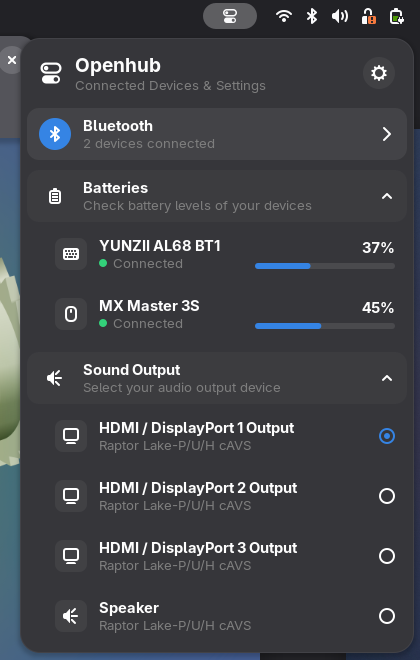
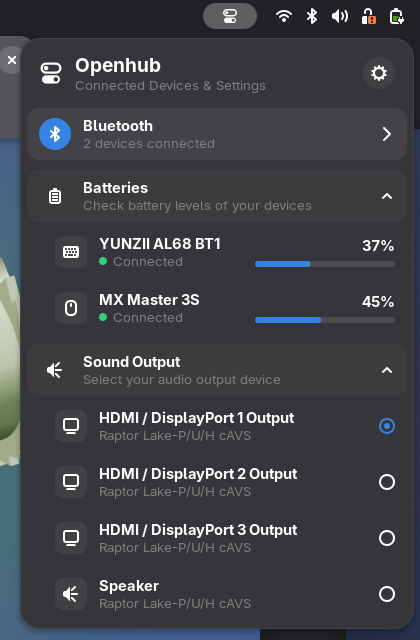
Extension: items at 8 px padding
Between the earlier 6 px, which felt tight, and 10 px.

diff --git a/extension/openhub@cjts15.github.io/stylesheet.css b/extension/openhub@cjts15.github.io/stylesheet.css
@@ -48,7 +48,7 @@
 
 .openhub-item {
   spacing: 12px;
-  padding: 10px 12px;
+  padding: 8px 12px;
   margin: 2px 0 2px 16px;
   border-radius: 12px;
 }
